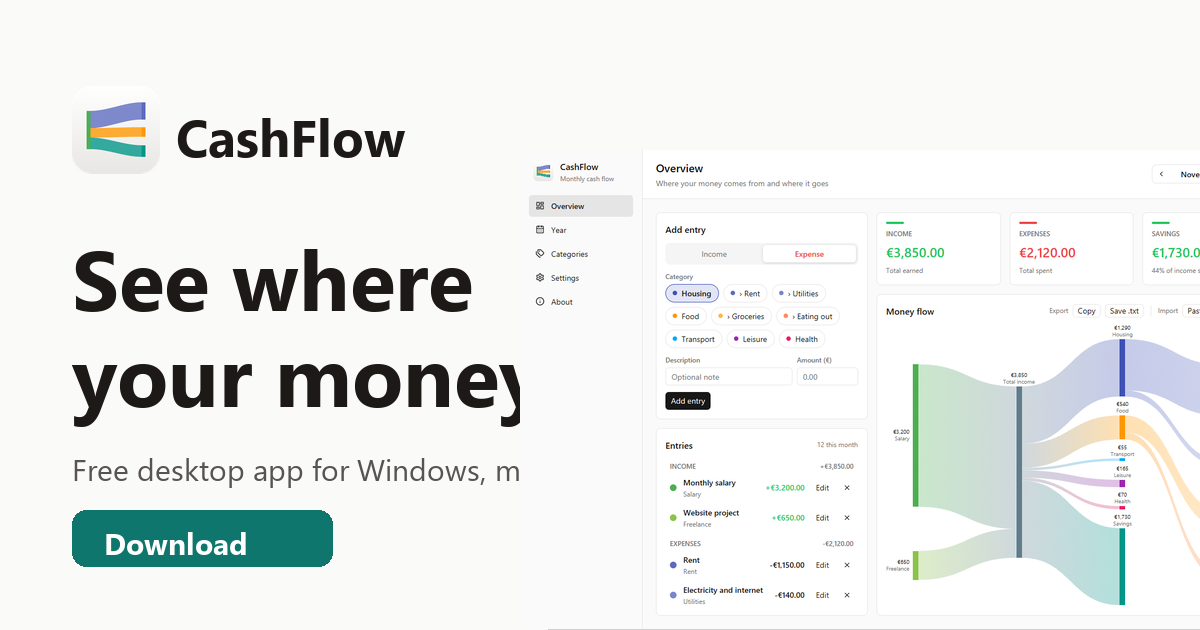
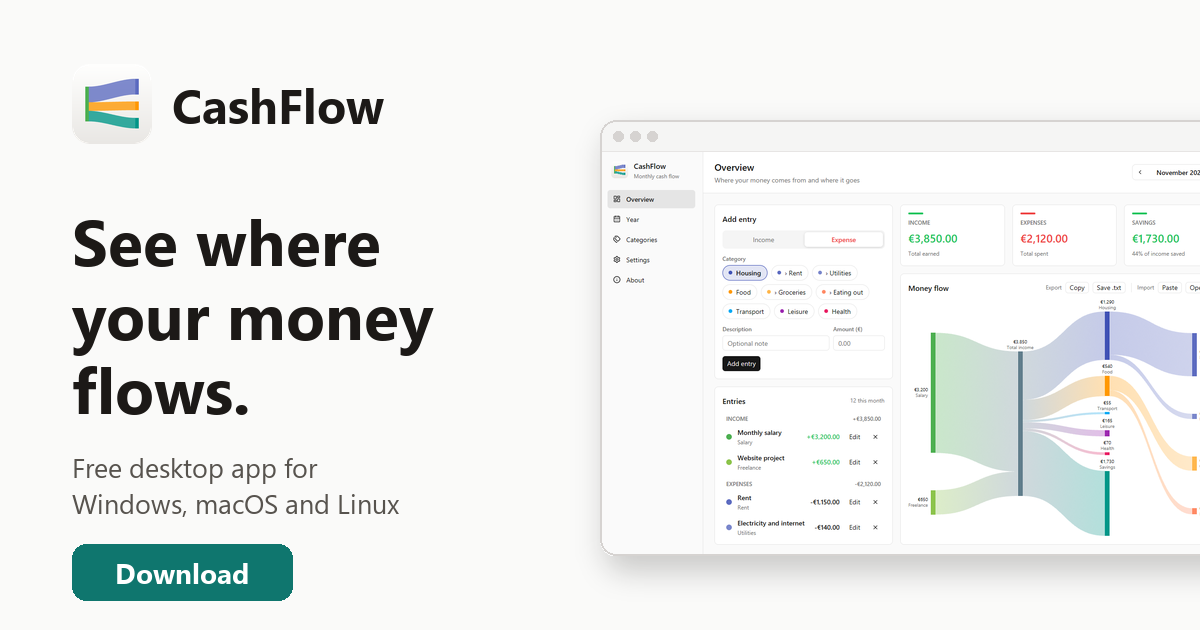
Fix the social sharing image layout

diff --git a/site/tools/make_og.py b/site/tools/make_og.py
@@ -5,7 +5,7 @@ Usage: python tools/make_og.py   (requires Pillow; uses Segoe UI when available)
 
 from pathlib import Path
 
-from PIL import Image, ImageDraw, ImageFont
+from PIL import Image, ImageDraw, ImageFilter, ImageFont
 
 ROOT = Path(__file__).resolve().parent.parent
 W, H = 1200, 630
@@ -29,28 +29,51 @@ def rounded(img: Image.Image, radius: int) -> Image.Image:
     return out
 
 
+def window(shot: Image.Image, width: int, radius: int = 16, bar: int = 32) -> Image.Image:
+    """The screenshot inside a generic app window (rounded, with a slim title bar)."""
+    shot = shot.convert("RGB")
+    shot = shot.resize((width, round(width * shot.height / shot.width)), Image.LANCZOS)
+    win = Image.new("RGB", (width, shot.height + bar), (245, 245, 244))
+    d = ImageDraw.Draw(win)
+    for i in range(3):
+        cx = 18 + i * 17
+        d.ellipse([cx - 5, bar // 2 - 5, cx + 5, bar // 2 + 5], fill=(214, 211, 209))
+    d.line([0, bar - 1, width, bar - 1], fill=(231, 229, 228))
+    win.paste(shot, (0, bar))
+    out = rounded(win, radius)
+    ImageDraw.Draw(out).rounded_rectangle([0, 0, out.width - 1, out.height - 1], radius=radius, outline=(214, 211, 209), width=2)
+    return out
+
+
 def main() -> None:
     img = Image.new("RGBA", (W, H), BG + (255,))
     d = ImageDraw.Draw(img)
+    left = 72
 
-    icon = Image.open(ROOT / "src" / "assets" / "icon.png").convert("RGBA").resize((88, 88), Image.LANCZOS)
-    img.alpha_composite(icon, (72, 86))
-    d.text((176, 100), "CashFlow", font=font(52, True), fill=TEXT)
+    icon = Image.open(ROOT / "src" / "assets" / "icon.png").convert("RGBA").resize((80, 80), Image.LANCZOS)
+    img.alpha_composite(icon, (left, 64))
+    d.text((left + 100, 104), "CashFlow", font=font(48, True), fill=TEXT, anchor="lm")
 
-    d.text((72, 220), "See where", font=font(84, True), fill=TEXT)
-    d.text((72, 316), "your money flows.", font=font(84, True), fill=TEXT)
-    d.text((72, 448), "Free desktop app for Windows, macOS and Linux", font=font(30), fill=MUTED)
-    d.rounded_rectangle([72, 510, 332, 566], radius=14, fill=ACCENT)
-    d.text((104, 522), "Download", font=font(30, True), fill=(255, 255, 255))
+    title = font(64, True)
+    for i, line in enumerate(["See where", "your money", "flows."]):
+        d.text((left, 196 + i * 74), line, font=title, fill=TEXT)
 
-    shot = Image.open(ROOT / "src" / "assets" / "screenshots" / "en-light.png").convert("RGB")
-    shot = shot.resize((760, int(760 * shot.height / shot.width)), Image.LANCZOS)
-    shot = rounded(shot, 18)
-    # Drop shadow, then the screenshot bleeding off the right edge.
+    sub = font(27)
+    for i, line in enumerate(["Free desktop app for", "Windows, macOS and Linux"]):
+        d.text((left, 448 + i * 36), line, font=sub, fill=MUTED)
+
+    # Button with centred label.
+    bx0, by0, bx1, by1 = left, 544, left + 220, 600
+    d.rounded_rectangle([bx0, by0, bx1, by1], radius=14, fill=ACCENT)
+    d.text(((bx0 + bx1) / 2, (by0 + by1) / 2), "Download", font=font(28, True), fill=(255, 255, 255), anchor="mm")
+
+    shot = Image.open(ROOT / "src" / "assets" / "screenshots" / "en-light.png")
+    win = window(shot, 640)
+    wx, wy = 600, 120
     shadow = Image.new("RGBA", (W, H), (0, 0, 0, 0))
-    ImageDraw.Draw(shadow).rounded_rectangle([548, 168, 548 + 760, 168 + shot.height], radius=18, fill=(28, 25, 23, 50))
-    img.alpha_composite(shadow)
-    img.alpha_composite(shot, (520, 150))
+    ImageDraw.Draw(shadow).rounded_rectangle([wx + 6, wy + 14, wx + win.width, wy + win.height + 14], radius=18, fill=(28, 25, 23, 55))
+    img.alpha_composite(shadow.filter(ImageFilter.GaussianBlur(14)))
+    img.alpha_composite(win, (wx, wy))
 
     out = ROOT / "public" / "og.png"
     img.convert("RGB").save(out, optimize=True)
